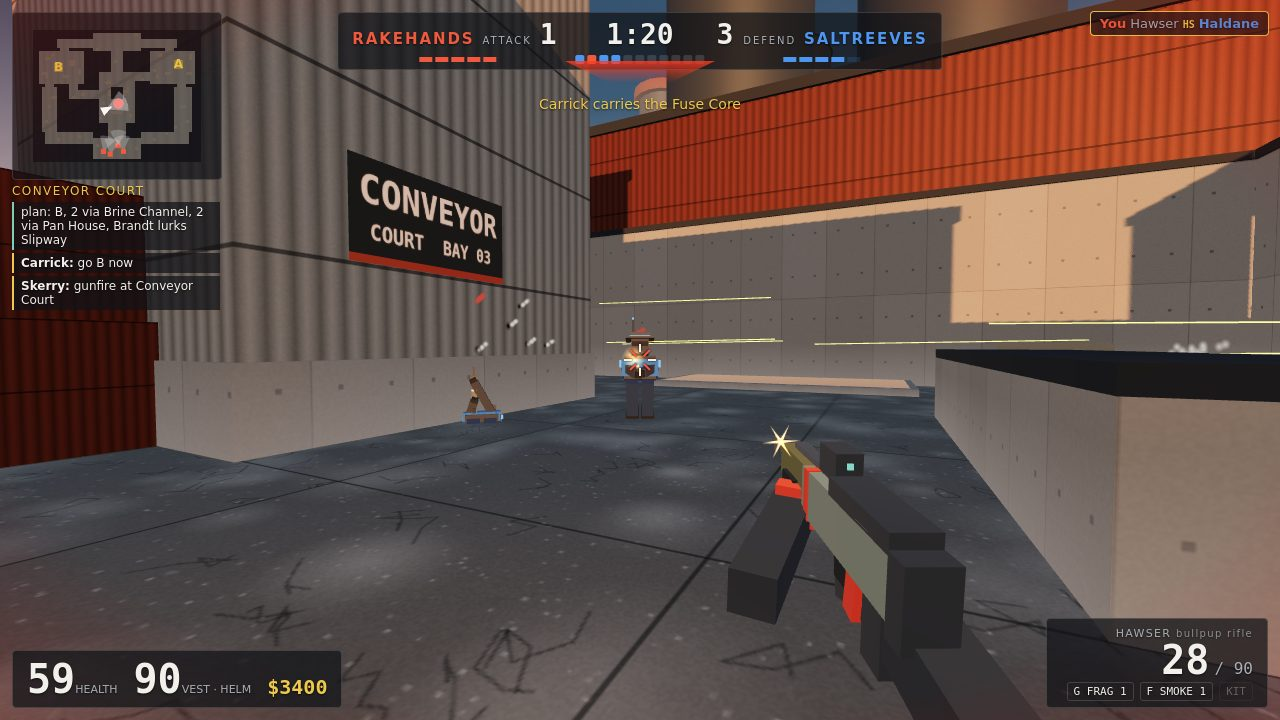
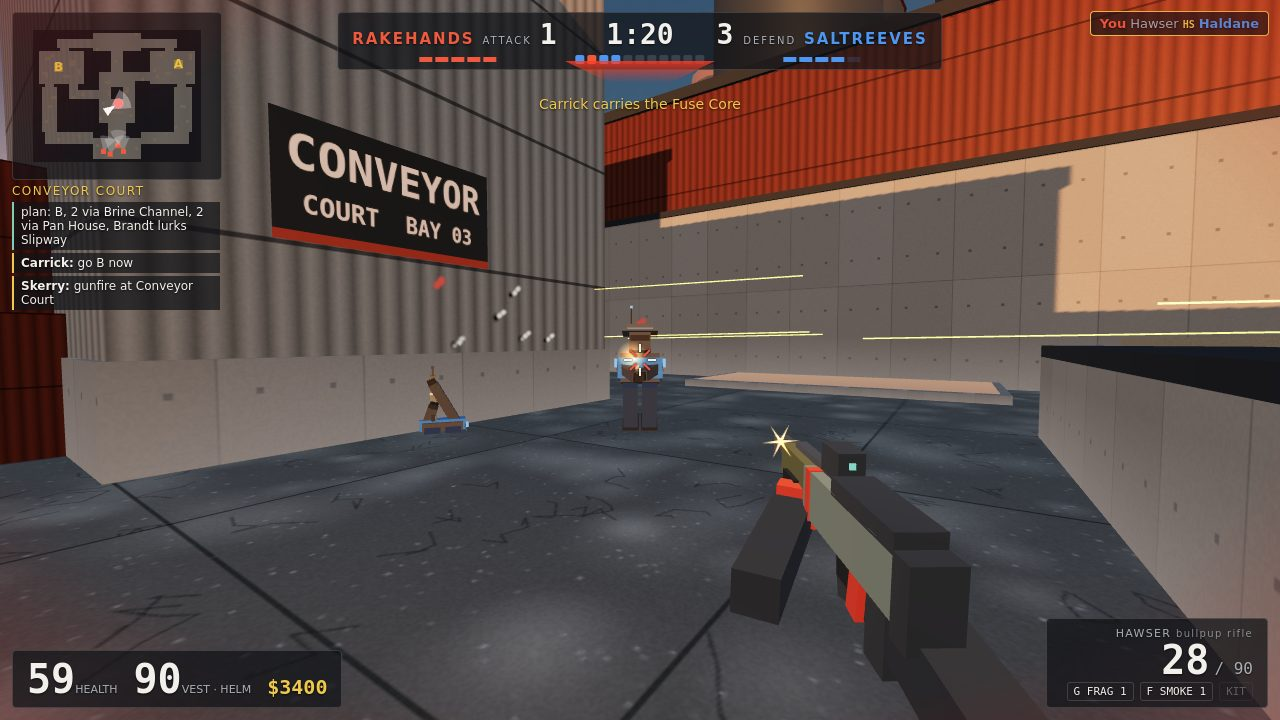
Shot 1: the trading Saltreeve at ~5.4 m (~112 px) under the crosshair, the sign whole
Fresh screenshots.

diff --git a/tools/stage.js b/tools/stage.js
@@ -19,7 +19,7 @@ const SCENES = {
   // Conveyor Court: crouched by the low wall, the player drops one Saltreeve with a headshot, then trades
   // with a second one 7 m out against the lit west wall (his muzzle flash, our hit marker).
   1: { side: 0, round: 5, clock: 80, ticks: 36, core: 'mate',
-    cast: [['p', 24, 26, 28, 24, 'hawser'], ['f0', 27, 23, 24, 26, 'hawser'], ['f1', 28, 24, 24, 26, 'cleat']],
+    cast: [['p', 25, 26, 28, 24, 'hawser'], ['f0', 27, 23, 25, 26, 'hawser'], ['f1', 28, 24, 25, 26, 'cleat']],
     fire: [['f1', 0.42, -0.1]], // his first shots go low: the player survives the trade
     radio: [['m1', 'gunfire at Conveyor Court'], ['m0', 'go B now']], // heard from the cut; the coach's call
     script(i, s) {
